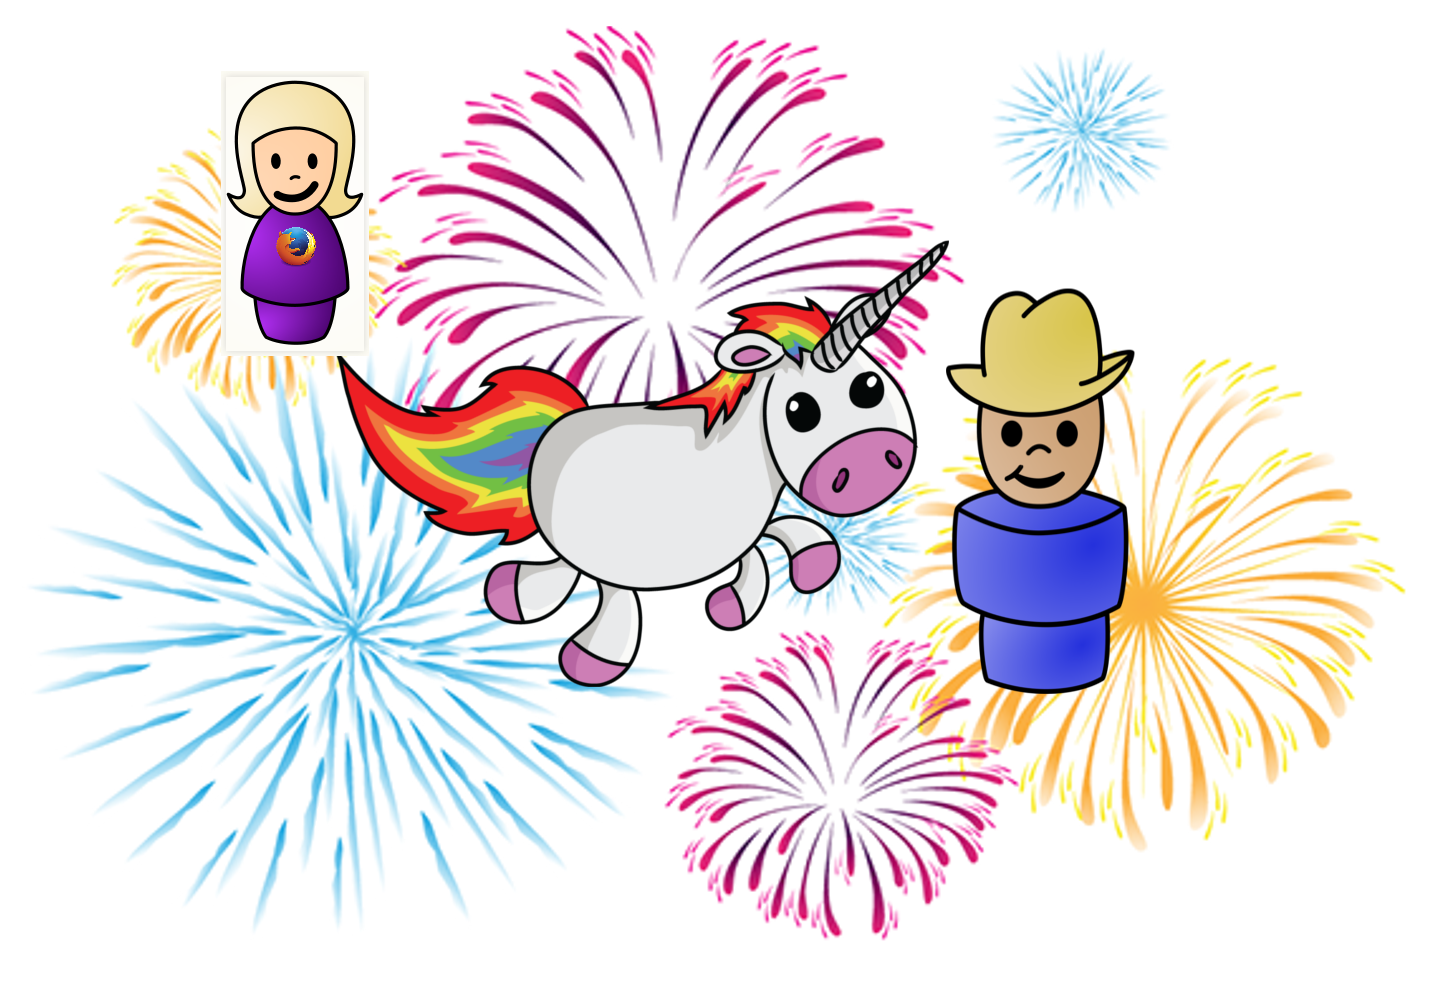
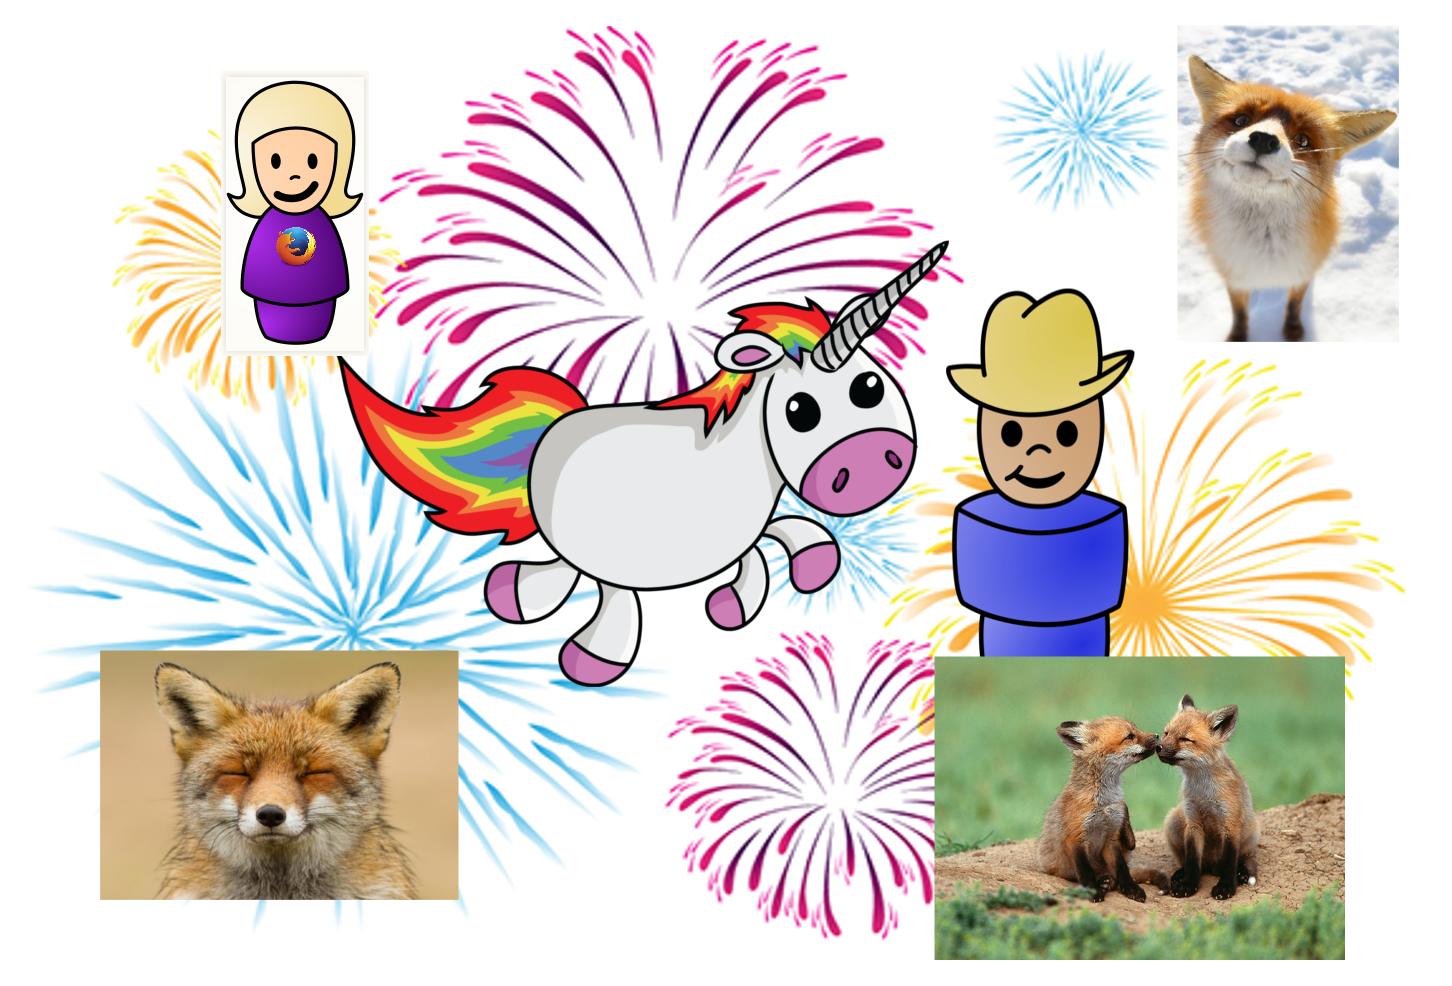
checkpoint

Changed region(s): [[0.6198, 0.6389, 0.9298, 0.9736], [0.062, 0.6389, 0.3409, 0.9128], [0.8058, 0.0, 0.9607, 0.3651]]

diff --git a/index.html b/index.html
@@ -263,11 +263,6 @@ WARN: Web Browser XSS Protection Not Enabled [10016] x 3
 
                 <section>
                     <h2>Then we deploy</h2>
-                    <ul> 
-                        <li>Docker container deployed by Jenkins and Ansible/Cloudformation to AWS</li>
-                        <li>The ops own that piece. They make the provisioning magic happen</li>
-                        <li>Security job is to help them harden the infra</li>
-                    </ul>
                 </section>
 
                 <section>
@@ -280,8 +275,8 @@ WARN: Web Browser XSS Protection Not Enabled [10016] x 3
                     <h2>Max has to write all the provisioning code</h2>
                     <ul>
                         <li>Build the AWS infra via cloudformation</li>
-                        <li>Setup the jenkins pipeline for continuous deployment</li>
-                        <li>Often help the devs make architecture decisions</li>
+                        <li>Setup the jenkins pipeline to for continuous deployment (Docker container deployed to EC2 instances with Jenkins, Ansible, Cloudformation and Puppet).</li>
+                        <li>He often helps the devs make architecture decisions, like how to use CDNs, caching, etc...</li>
                     </ul>
                 </section>
 
@@ -292,10 +287,10 @@ WARN: Web Browser XSS Protection Not Enabled [10016] x 3
                 <section>
                     <h2>We help Max with tools...</h2>
                     <ul>
-                        <li>Managing secrets (SOPS) to prevent leaks</li>
-                        <li>Configuring good TLS on endpoints (TLS Observatory)</li>
-                        <li>Disable users that have left the company (Userplex)</li>
-                        <li>Build crypto services so services don't have to manage keys (Autograph)</li>
+                        <li>Managing secrets (<a href="https://github.com/mozilla/sops">SOPS</a>) to prevent leaks</li>
+                        <li>Configuring good TLS on endpoints (<a href="https://github.com/mozilla/tls-observatory">TLS Observatory</a>)</li>
+                        <li>Disabling users that have left the company (<a href="https://github.com/mozilla-services/userplex">Userplex</a>)</li>
+                        <li>Building crypto services so services don't have to manage keys (<a href="https://github.com/mozilla-services/autograph">Autograph</a>)</li>
                     </ul>
                     <h2>and Guidelines</h2>
                     <ul>
@@ -306,12 +301,12 @@ WARN: Web Browser XSS Protection Not Enabled [10016] x 3
                 </section>
 
                 <section>
-                    <h2>Sec team builds solutions that helps DevOps</h2>
+                    <h2>Sec team builds solutions<br />to help DevOps</h2>
                     <ol>
                         <li>Dev or Ops come see us with a problem</li>
                         <li>We discuss it together</li>
                         <li>Sec or Dev team builds a solution that solve the issue</li>
-                        <li>We generalize the solution so other teams can benefit as well</li>
+                        <li>We generalize it so other teams can benefit as well</li>
                     </ol>
                 </section>
 
@@ -333,7 +328,7 @@ app2:
                     <h2>Test Driven Security for the infrastructure</h2>
                     <ul>
                         <li>Test the TLS configuration daily (certificate, ciphersuites, ...)</li>
-                        <li>[future] Test the security groups (firewalls) with mozilla/build-fwunit</li>
+                        <li>[future] Test security groups with <a href="https://github.com/mozilla/build-fwunit">mozilla/build-fwunit</a></li>
                         <li>[future] Test AWS IAM policies</li>
                     </ul>
                 </section>
@@ -362,12 +357,12 @@ $ tlsobs addons.mozilla.org
                 </section>
 
                 <section>
-                    <h2>It's launch day!</h2>
+                    <h2>It's launch day! Foxes Everywhere!</h2>
                     <img src="statics/launch_day.png" />
                 </section>
 
                 <section>
-                    <h2>Until bad guys decide to mess with us</h2>
+                    <h2>Until bad guys start attacking CuteFox</h2>
                     <img src="statics/hell.jpg" />
                 </section>
 
